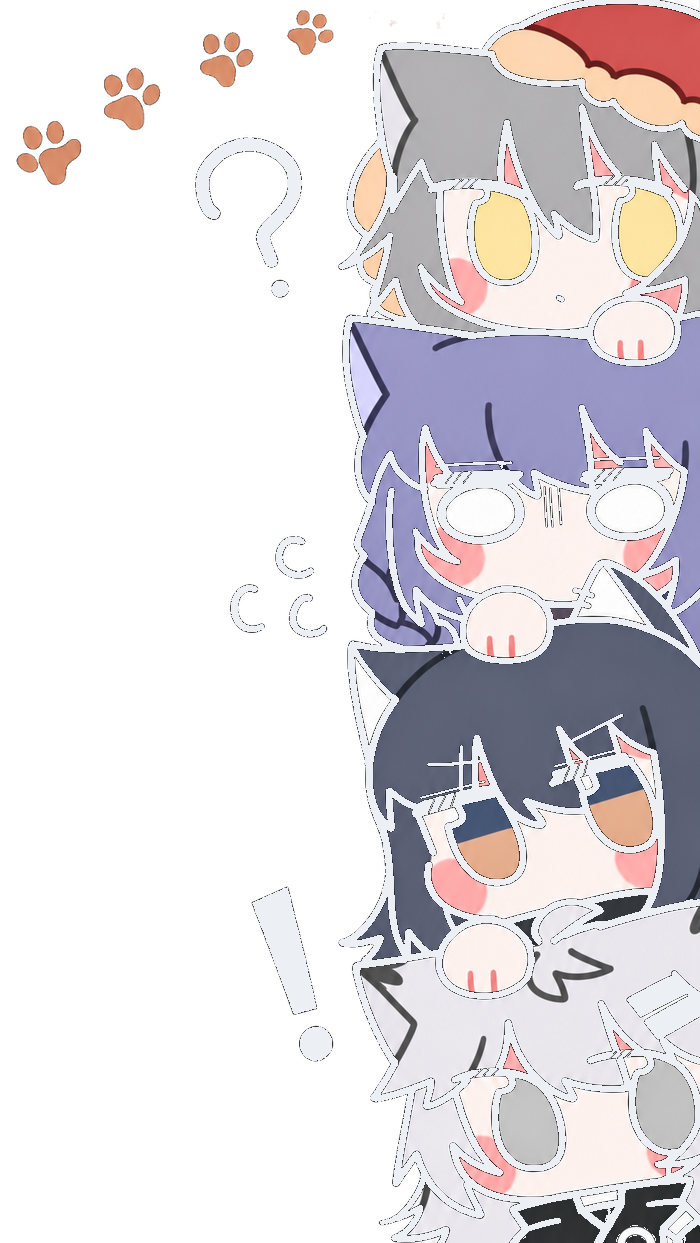
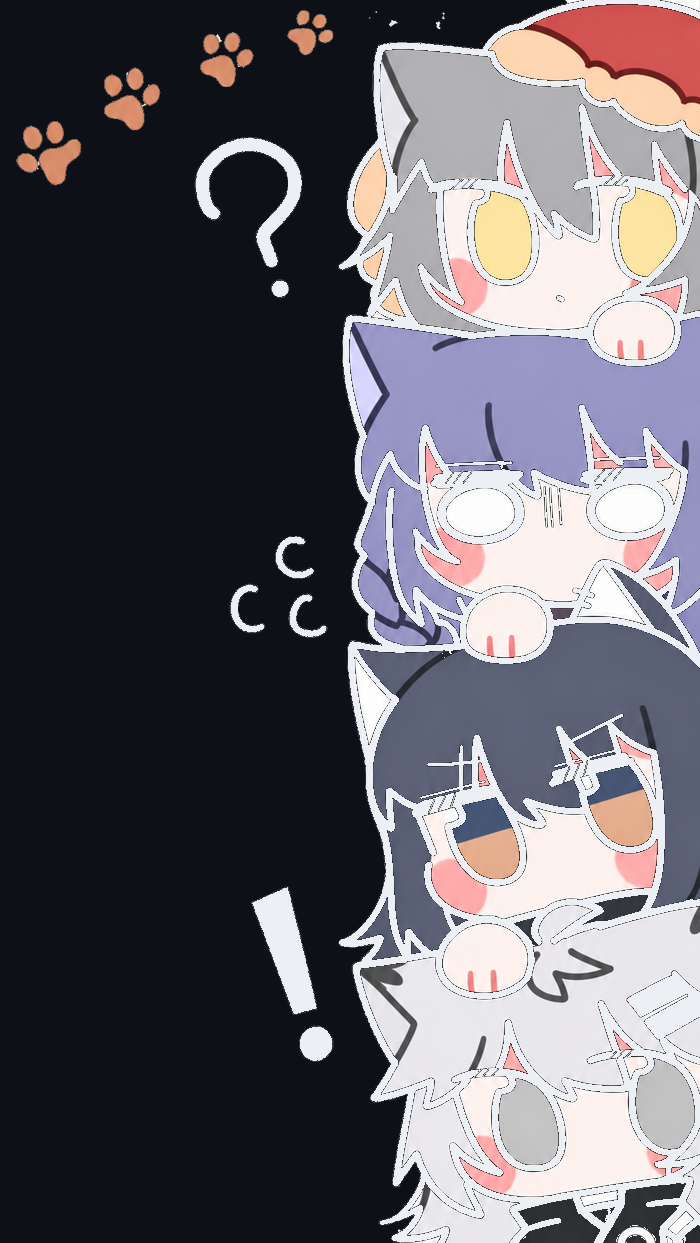
fix：用不透明底覆盖插画后的分割线

diff --git a/CLAUDE.md b/CLAUDE.md
@@ -48,7 +48,8 @@ This file provides guidance to Claude Code (claude.ai/code) when working with co
 - GitHub 会过滤内联 `<svg>`、`<script>`、`<style>`、`<iframe>` 和自定义样式。图片必须走仓库内的独立 `.svg` 文件。
 - `<img>` 加载的 SVG 是独立图片文档。GitHub raw 的 CSP 允许 SVG 内联样式与动画，但禁止外部字体、外部图片、脚本或 `currentColor` 依赖。
 - Hero 使用 SMIL 动画，目前在 Chrome 中通过真实 GitHub 页面验证过打字和扫描线动效。
-- 右侧插画使用普通 `<img align="right">` 浮动；`#gh-light-mode-only` / `#gh-dark-mode-only` 负责主题切换。桌面端宽度为 350，手机端会被 `max-width: 100%` 限制为整行。
+- 右侧插画使用普通 `<img align="right" width="45%">` 浮动；`#gh-light-mode-only` / `#gh-dark-mode-only` 负责主题切换。
+- 插画使用与 GitHub 页面一致的纯色底（浅色 `#FFFFFF`、深色 `#0D1117`，无 alpha），覆盖 `h2` 的整行下边框，避免分割线透过透明区域。
 - 图片浮动结束后使用 `<br clear="right" />` 清除浮动，避免影响 GitHub Stats。
 - 外部统计卡依赖第三方服务，可能被 Camo 缓存或短时不可用；不要让它们成为核心信息的唯一来源。
 - 贡献蛇由 `.github/workflows/snake.yml` 生成到 `output` 分支，README 通过 raw URL 读取，不要手写或提交生成结果。
